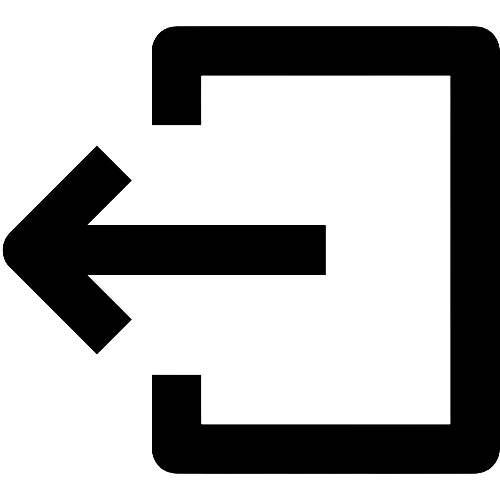
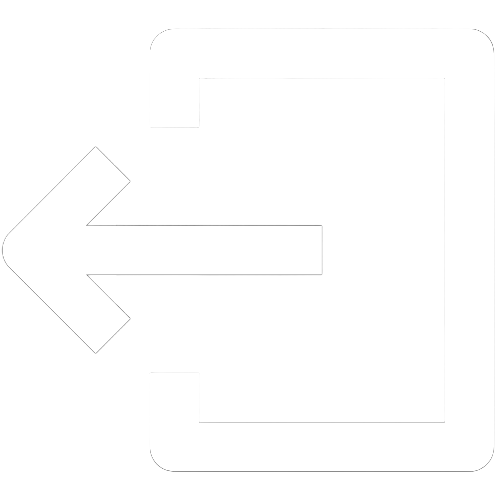
added an info page

diff --git a/src/css/style.css b/src/css/style.css
@@ -19,6 +19,10 @@
     -fx-border-color: transparent;
 }
 
+#exit {
+    -fx-background-color: #810000;
+}
+
 .label-one {
     -fx-background-color: #381e00;
     -fx-label-padding: 6.0;

diff --git a/src/Game.java b/src/Game.java
@@ -16,6 +16,7 @@ import java.util.Objects;
 
 public class Game {
     private PaneOrganizer paneOrganizer;
+    private Info infoPage;
     private Timeline timeline;
     private int timeInMinutes;
     private int timeInSeconds;
@@ -26,6 +27,7 @@ public class Game {
 
     public Game(PaneOrganizer paneOrganizer) {
         this.paneOrganizer = paneOrganizer;
+        this.infoPage = new Info();
         this.setupGame();
     }
 
@@ -56,27 +58,6 @@ public class Game {
 
         gamePane.setTop(topBar);
 
-        // Controls
-        VBox controls = new VBox();
-        controls.setAlignment(Pos.CENTER);
-        controls.setPadding(new Insets(30.0));
-        controls.setSpacing(12.0);
-
-        Button settings = new Button();
-        settings.getStyleClass().add("controls-button");
-        settings.setGraphic(this.loadImageView("/resources/settings.png"));
-
-        Button info = new Button();
-        info.getStyleClass().add("controls-button");
-        info.setGraphic(this.loadImageView("/resources/info.png"));
-
-        Button exit = new Button();
-        exit.getStyleClass().add("controls-button");
-        exit.setGraphic(this.loadImageView("/resources/exit.png"));
-
-        controls.getChildren().addAll(settings, info, exit);
-        gamePane.setLeft(controls);
-
         // Board
         Board board = new Board(this, gamePane);
 
@@ -102,6 +83,38 @@ public class Game {
         this.styleButton(start);
         bottomPane.getChildren().add(start);
         gamePane.setBottom(bottomPane);
+
+        // Controls
+        VBox controls = new VBox();
+        controls.setAlignment(Pos.CENTER);
+        controls.setPadding(new Insets(30.0));
+        controls.setSpacing(12.0);
+
+        Button settings = new Button();
+        settings.getStyleClass().add("controls-button");
+        settings.setCursor(Cursor.HAND);
+        settings.setGraphic(this.loadImageView("/resources/settings.png"));
+
+        Button info = new Button();
+        info.getStyleClass().add("controls-button");
+        info.setCursor(Cursor.HAND);
+        info.setOnAction(actionEvent -> {
+            this.turnLabel.setVisible(false);
+            this.timeLeft.setVisible(false);
+            bottomPane.setVisible(false);
+            this.infoPage.showScreen(gamePane);
+        });
+        info.setGraphic(this.loadImageView("/resources/info.png"));
+
+        Button exit = new Button();
+        exit.getStyleClass().add("controls-button");
+        exit.setId("exit");
+        exit.setOnAction(actionEvent -> System.exit(0));
+        exit.setCursor(Cursor.HAND);
+        exit.setGraphic(this.loadImageView("/resources/exit.png"));
+
+        controls.getChildren().addAll(settings, info, exit);
+        gamePane.setLeft(controls);
 
         this.paneOrganizer.showScreen(gamePane);
     }

diff --git a/src/Info.java b/src/Info.java
@@ -1,0 +1,16 @@
+import javafx.scene.layout.BorderPane;
+import javafx.scene.layout.HBox;
+import javafx.scene.text.Text;
+
+public class Info {
+    public Info() {
+
+    }
+
+    public void showScreen(BorderPane gamePane) {
+        HBox infoPane = new HBox();
+        Text label = new Text("INFO");
+        infoPane.getChildren().add(label);
+        gamePane.setCenter(infoPane);
+    }
+}

diff --git a/src/Pit.java b/src/Pit.java
@@ -8,7 +8,6 @@ import javafx.scene.layout.StackPane;
 import javafx.scene.paint.Color;
 import javafx.scene.shape.Circle;
 import javafx.util.Duration;
-
 import java.util.function.Consumer;
 
 public class Pit {
